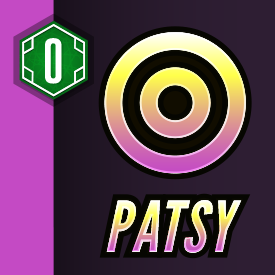
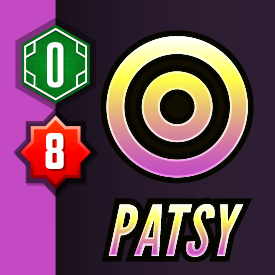
BIKERS: [buff] add move, patsies attack, and intimidate kills now

diff --git a/server/classes/factions/Bikers.js b/server/classes/factions/Bikers.js
@@ -46,7 +46,7 @@ class Bikers extends Faction {
         this.tokens['deploy'].count = 2;
 
         delete this.tokens['battle'];
-        delete this.tokens['move'];
+        //delete this.tokens['move'];
 
         // units
         //this.units['goon'].data.noReplace = true;
@@ -56,6 +56,7 @@ class Bikers extends Faction {
         this.units['mole'].data.redeployFree = true;
 
         this.units['patsy'].count = 8;
+        this.units['patsy'].data.attack = [8];
         //this.units['patsy'].data.noReplace = true;
         this.units['patsy'].data.redeployFree = true;
 
@@ -112,7 +113,7 @@ class Bikers extends Faction {
         const responses = await Promise.all( promises );
 
         // process choices
-        const { units, payoffs } = this.processIntimidateActions( responses );
+        const { units, payoffs } = await this.processIntimidateActions( responses );
 
         this.resolvePayoffs( payoffs );
 
@@ -146,7 +147,7 @@ class Bikers extends Faction {
             players: faction.playerId,
             name: 'choose-units',
             data : {
-                message: "Choose a unit to return to your reserves, or pay xC1x",
+                message: "Choose a unit to sacrifice, or pay xC1x",
                 count : 1,
                 areas : [ area ],
                 playerOnly: true,
@@ -163,11 +164,11 @@ class Bikers extends Faction {
         };
     }
 
-    processIntimidateActions( responses ){
+    async processIntimidateActions( responses ){
         const units = [];
         let payoffs = 0;
 
-        responses.forEach( response => {
+        for( response of responses){
             const faction = response.faction;
 
             if(response.pay){
@@ -181,9 +182,9 @@ class Bikers extends Faction {
             if(response.unit){
                 const unit = this.game().objectMap[response.unit];
                 units.push( _.clone(unit) );
-                faction.returnUnitToReserves( unit );
+                await this.game().killUnit( unit, this );
             }
-        });
+        }
 
         return { units, payoffs };
     }
